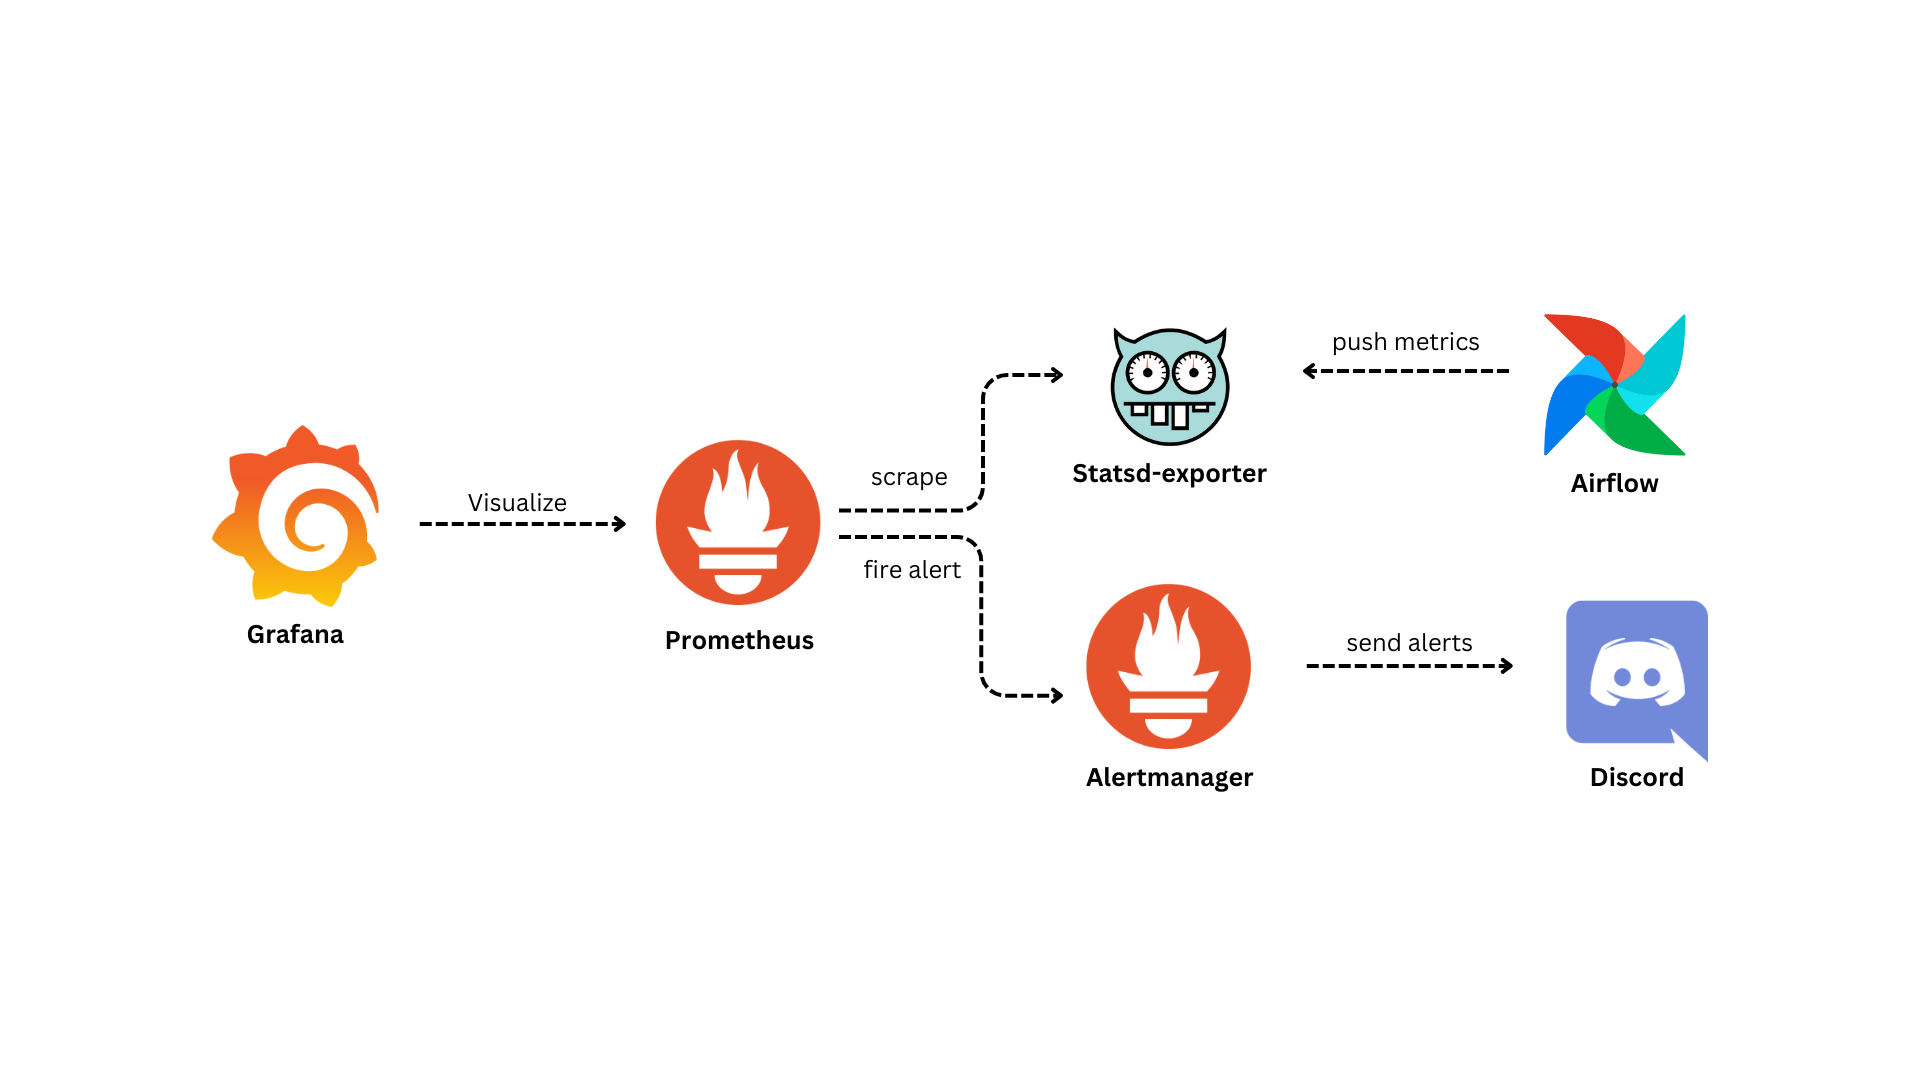
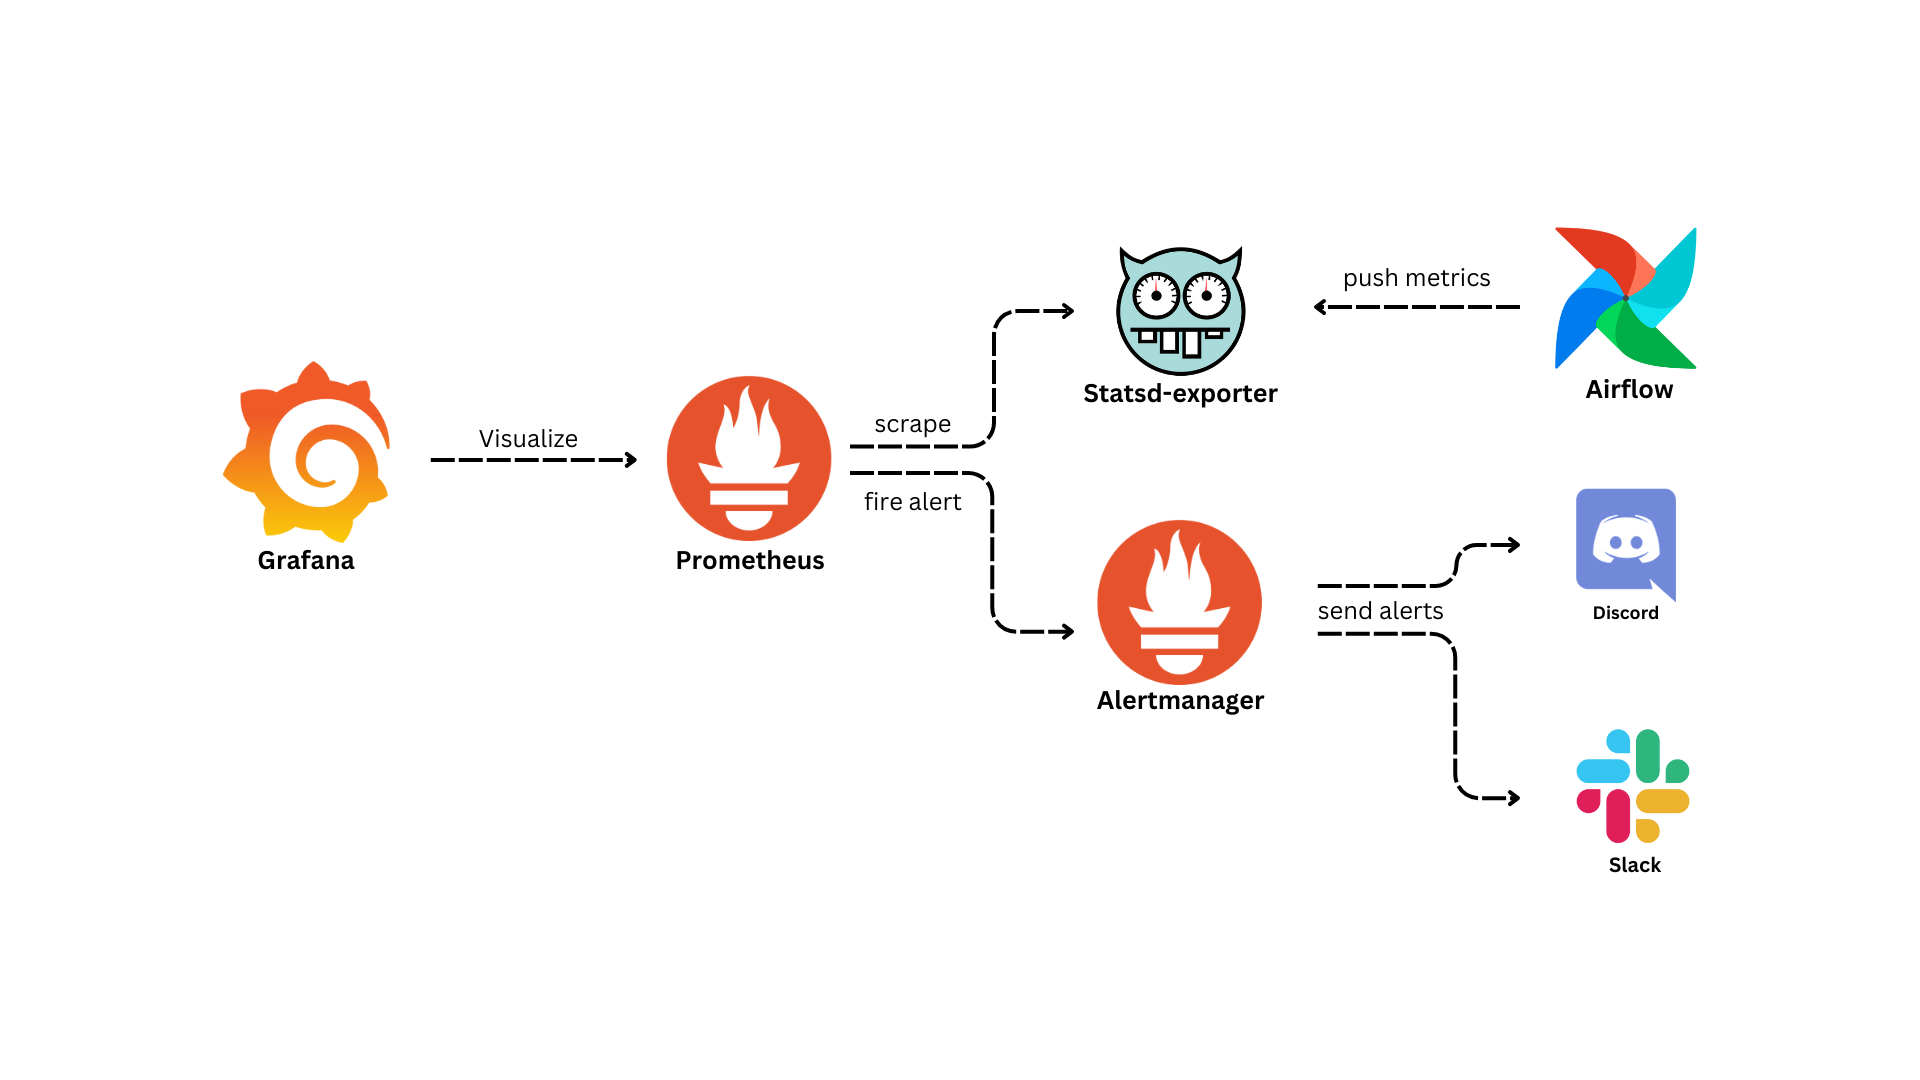
:rotating_light: feat(alertmanager): add slack integration to alertmanager config file (#11)
* :rotating_light: feat(alertmanager): Add Slack integration to Alertmanager config file.

* :memo: docs(readme): add steps of how using slack as an alertmanager downstream to README file.

* :memo: docs(readme): add Slack to Project Description part.

* :memo: docs(assets): change the header image of readme file and add Slack icon to it.

diff --git a/README.md b/README.md
@@ -29,7 +29,7 @@ This project offers a robust monitoring stack for Apache Airflow, encapsulated w
 
 The stack is designed for easy deployment and configuration. Grafana dashboards are automatically provisioned, enabling immediate visualization of key metrics from your Airflow instance. The project supports the addition of new dashboards by simply adding the corresponding JSON file to the `config_files/grafana/var/lib/grafana/dashboards` directory.
 
-In addition to this, Alertmanager is incorporated into the stack to group alerts and send notifications to a Discord channel using a webhook token. This ensures you are always informed about the status of your workflows and can respond promptly to any issues.
+In addition to this, Alertmanager is incorporated into the stack to group alerts and send notifications to a Discord or Slack channel using a webhook token. This ensures you are always informed about the status of your workflows and can respond promptly to any issues.
 
 ## Project Usage 🧑💻
 
@@ -50,7 +50,7 @@ Deploying the project is straightforward:
     git clone https://github.com/data-burst/airflow-monitoring-and-alerting.git
     ```
 
-2. Add your Discord webhook token to `config_files/alertmanager/config.yaml` file and replace it with `<your_discord_webhook>`.
+2. Configure your Alertmanager by adding your Discord or Slack webhook token to the config_files/alertmanager/config.yaml file. Replace `<your_discord_webhook>` for Discord and `<your_slack_webhook>` for Slack. Additionally, update `<#your_slack_channel_name>` with your Slack channel name, for example, `#my_channel_name`."
 
 3. **Start the Services**: Navigate to the project directory and use the following command to initiate all services in detached mode.
 
